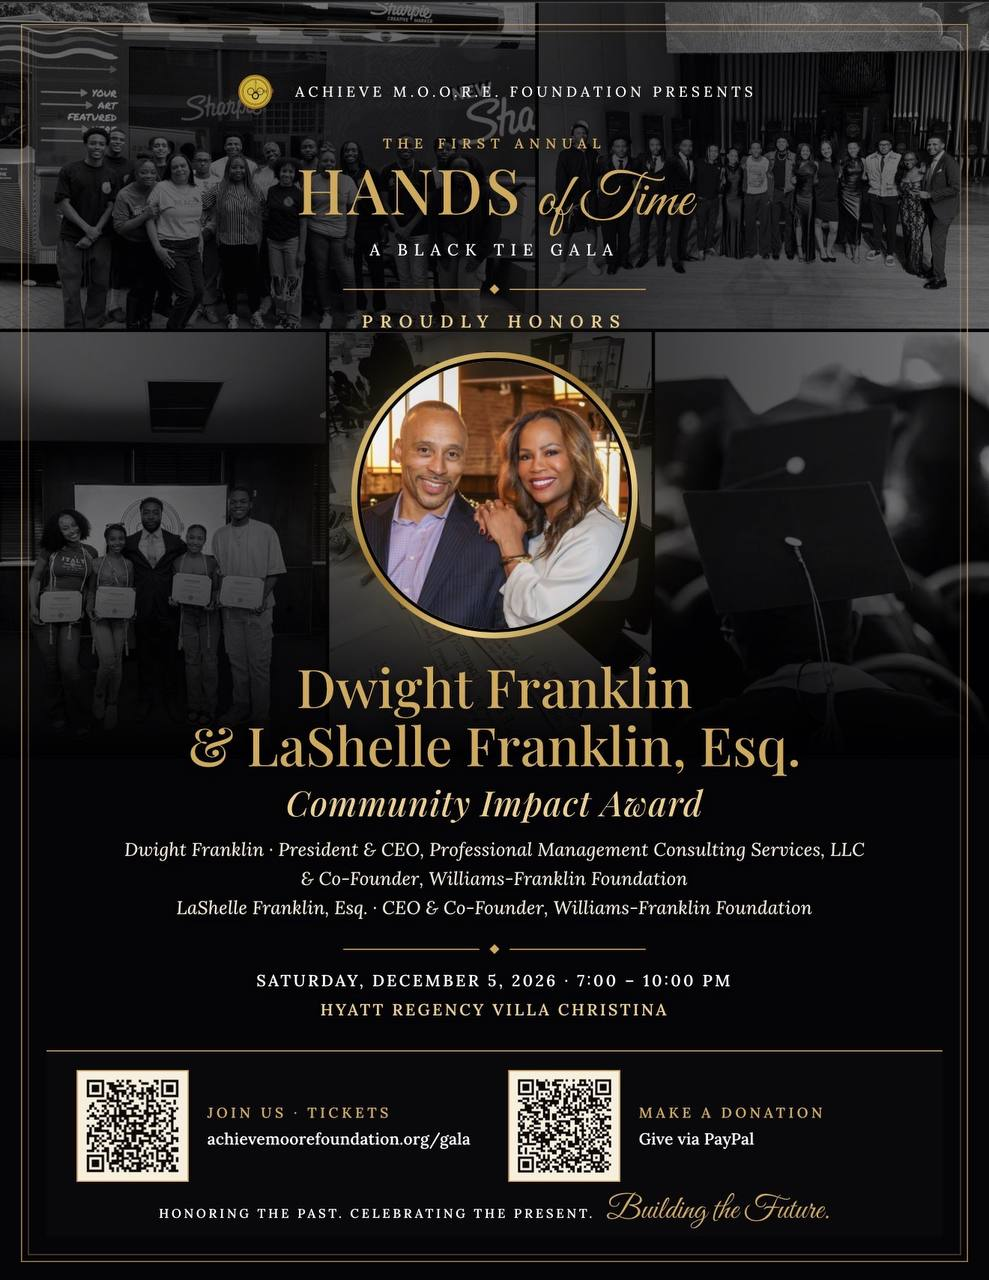
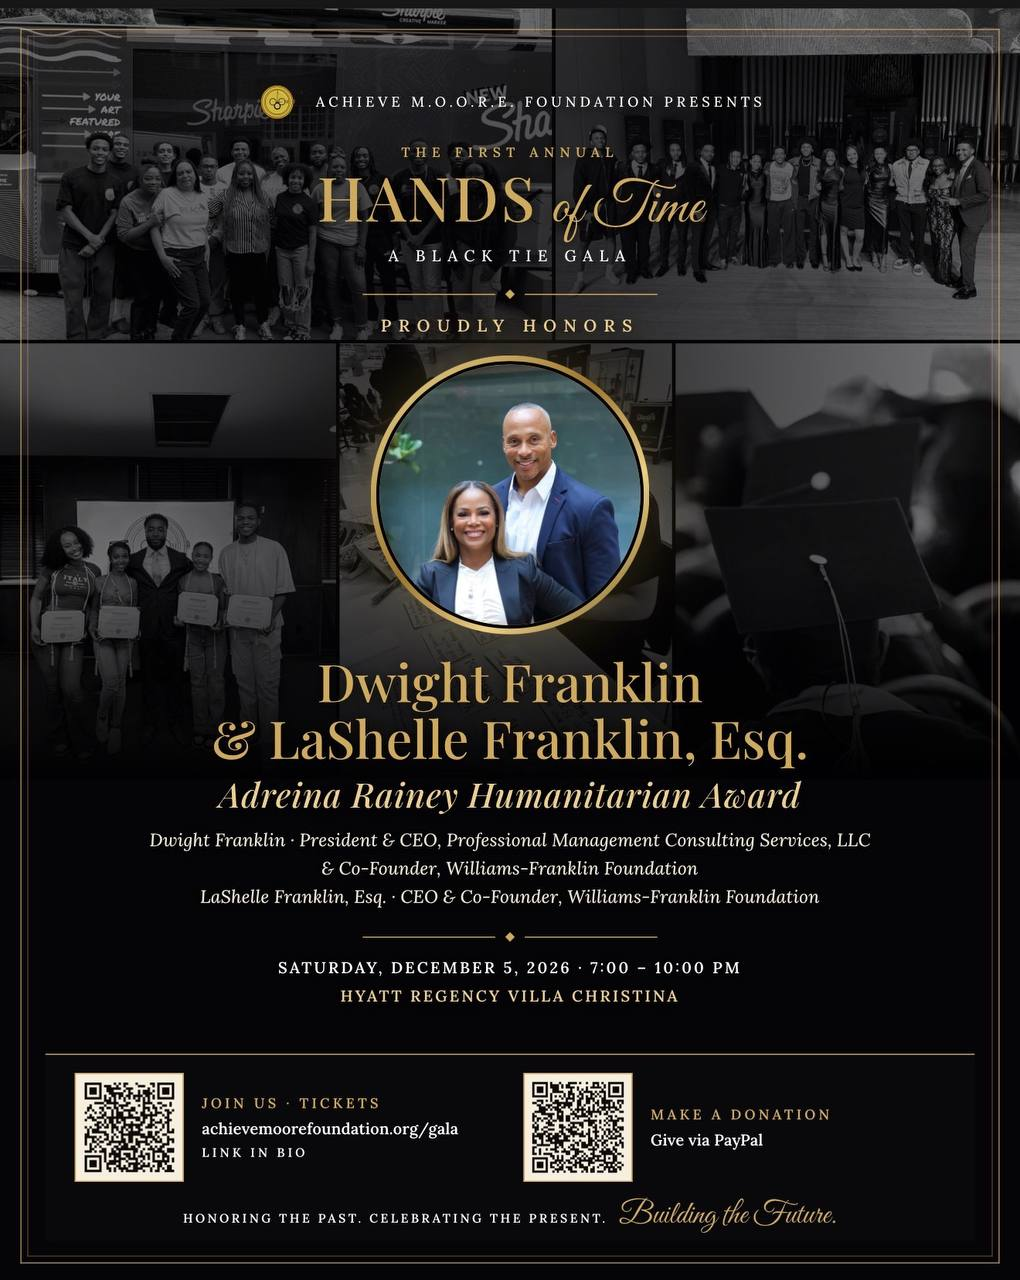
Franklins receive the Adreina Rainey Humanitarian Award, not Community Impact
Update their gala honoree card, the home-page flyer alt text, and the
memorial card (inaugural recipients now named); replace the Franklins
flyer with the updated Humanitarian Award version. No mention of the
Community Impact Award remains.

Changed region(s): [[0.0, 0.0, 1.0, 1.0]]

diff --git a/gala.html b/gala.html
@@ -1048,7 +1048,7 @@
     <div class="honoree-card">
       <div class="honoree-photo" style="background-image: url('assets/honorees/dwight-lashelle-franklin.jpg'); background-position: center 18%;" role="img" aria-label="Portrait of Dwight Franklin and LaShelle Franklin, Esq."></div>
       <div class="honoree-info">
-        <p class="honoree-award">Community Impact Award</p>
+        <p class="honoree-award">Adreina Rainey Humanitarian Award</p>
         <h3 class="honoree-name">Dwight &amp; LaShelle Franklin, Esq.</h3>
         <p class="honoree-roles">Co-Founders &middot; Williams-Franklin Foundation</p>
         <p class="honoree-bio">Through the <strong>Williams-Franklin Foundation</strong>, the Franklins have raised nearly <strong>$1 million</strong> to support HBCU students with scholarships, mentorship, and career development. Dwight is President &amp; CEO of <strong>Professional Management Consulting Services, LLC</strong>; LaShelle, a Howard University graduate and attorney, leads the foundation as CEO.</p>
@@ -1066,7 +1066,7 @@
       <p class="memorial-quote">&ldquo;Don&rsquo;t hold on to anything in life, because if you keep your fist closed, nothing can come in, and nothing can go out.&rdquo;</p>
       <p class="memorial-quote-author">&mdash; Grandma Rainey</p>
       <p class="memorial-copy">Adreina Rainey lived the definition of a humanitarian &mdash; one who devotes their life to the welfare and dignity of others. Her door was always open, her table always set, her heart always had room for one more. In her name, this award honors leaders whose compassion has transformed communities, whose service has lifted countless lives, and whose open hands, like hers, have made the world feel like home.</p>
-      <p class="memorial-soon">Inaugural Recipients Will Be Announced Soon</p>
+      <p class="memorial-soon">Inaugural Recipients: Dwight &amp; LaShelle Franklin, Esq.</p>
     </div>
   </div>
 

diff --git a/home.html b/home.html
@@ -1501,7 +1501,7 @@ navLinks.querySelectorAll('a').forEach(link => {
     },
     {
       src: 'assets/honorees/gala-flyer-franklins.jpg',
-      alt: 'Hands of Time Gala flyer — proudly honoring Dwight Franklin and LaShelle Franklin, Esq., co-founders of the Williams-Franklin Foundation, with the Community Impact Award, Saturday December 5, 2026, 7:00–10:00 PM, Hyatt Regency Villa Christina',
+      alt: 'Hands of Time Gala flyer — proudly honoring Dwight Franklin and LaShelle Franklin, Esq., co-founders of the Williams-Franklin Foundation, with the Adreina Rainey Humanitarian Award, Saturday December 5, 2026, 7:00–10:00 PM, Hyatt Regency Villa Christina',
       label: 'Proudly Honoring',
       title: 'Dwight & LaShelle Franklin, Esq.',
       cta: 'Meet the Honorees',
